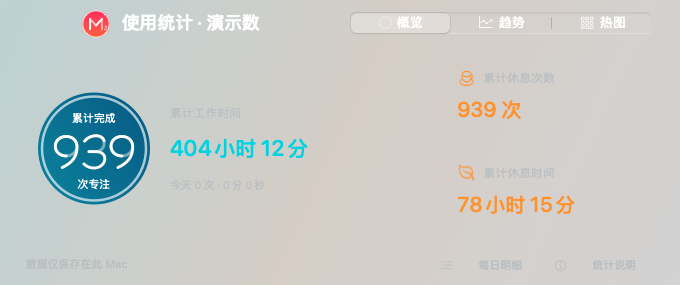
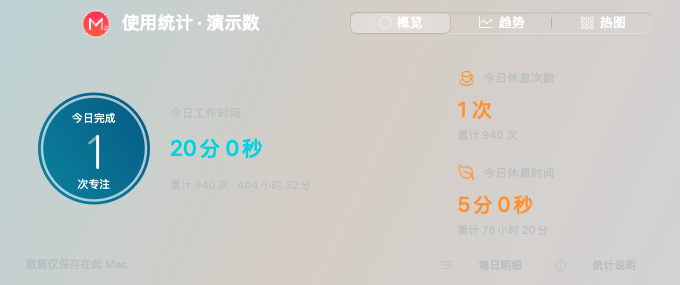
Prioritize today metrics in usage overview

diff --git a/Sources/Minutes2/StatisticsWindow.swift b/Sources/Minutes2/StatisticsWindow.swift
@@ -206,25 +206,27 @@ private final class StatisticsOverview: NSView {
                             NSColor(srgbRed: 0.03, green: 0.37, blue: 0.53, alpha: 1)])!.draw(in: path, angle: -35)
         let arc = NSBezierPath(ovalIn: circle.insetBy(dx: 4, dy: 4)); arc.lineWidth = 2.5
         NSColor.white.withAlphaComponent(0.65).setStroke(); arc.stroke()
-        StatsFormat.draw("累计完成", in: NSRect(x: 18, y: circle.minY + 18, width: 112, height: 20), size: 11, color: .white, alignment: .center)
+        StatsFormat.draw("今日完成", in: NSRect(x: 18, y: circle.minY + 18, width: 112, height: 20), size: 11, color: .white, alignment: .center)
         let countRect = NSRect(x: 18, y: circle.minY + 37, width: 112, height: 45)
         if available {
-            CountdownDigits.draw(total.workCount, in: countRect, height: min(34, 96 * 94 / (CGFloat(String(total.workCount).count) * 79)))
+            CountdownDigits.draw(today.workCount, in: countRect, height: min(34, 96 * 94 / (CGFloat(String(today.workCount).count) * 79)))
         } else { StatsFormat.draw("—", in: countRect, size: 32, color: .white, alignment: .center) }
         StatsFormat.draw("次专注", in: NSRect(x: 18, y: circle.minY + 84, width: 112, height: 20), size: 11, color: .white, alignment: .center)
         let x: CGFloat = 150, middle = bounds.height / 2
-        StatsFormat.draw("累计工作时间", in: NSRect(x: x, y: middle - 44, width: workWidth - x - 16, height: 22), size: 12)
-        StatsFormat.draw(available ? StatsFormat.duration(total.workSeconds) : "—", in: NSRect(x: x, y: middle - 14, width: workWidth - x - 16, height: 32), size: 22, color: StatsStyle.work, weight: .medium)
-        StatsFormat.draw(available ? "今天 \(today.workCount)次 · \(StatsFormat.duration(today.workSeconds))" : "统计记录暂不可用", in: NSRect(x: x, y: middle + 29, width: workWidth - x - 16, height: 20), size: 11)
+        StatsFormat.draw("今日工作时间", in: NSRect(x: x, y: middle - 44, width: workWidth - x - 16, height: 22), size: 12)
+        StatsFormat.draw(available ? StatsFormat.duration(today.workSeconds) : "—", in: NSRect(x: x, y: middle - 14, width: workWidth - x - 16, height: 32), size: 22, color: StatsStyle.work, weight: .medium)
+        StatsFormat.draw(available ? "累计 \(total.workCount)次 · \(StatsFormat.duration(total.workSeconds))" : "统计记录暂不可用", in: NSRect(x: x, y: middle + 29, width: workWidth - x - 16, height: 20), size: 11)
         let restX = workWidth + 12, restWidth = width - restX
-        for (index, pair) in [("累计休息次数", "\(total.restCount) 次"), ("累计休息时间", StatsFormat.duration(total.restSeconds))].enumerated() {
+        for (index, pair) in [("今日休息次数", "\(today.restCount) 次"), ("今日休息时间", StatsFormat.duration(today.restSeconds))].enumerated() {
             let top = CGFloat(index) * bounds.height / 2 + 15
             let symbol = NSImage(systemSymbolName: index == 0 ? "cup.and.saucer" : "leaf", accessibilityDescription: pair.0)
             symbol?.withSymbolConfiguration(.init(paletteColors: [StatsStyle.rest]))?.draw(in: NSRect(x: restX + 16, y: top, width: 18, height: 18))
             StatsFormat.draw(pair.0, in: NSRect(x: restX + 42, y: top + 1, width: restWidth - 54, height: 20), size: 12)
             StatsFormat.draw(available ? pair.1 : "—", in: NSRect(x: restX + 16, y: top + 28, width: restWidth - 32, height: 30), size: 21, color: StatsStyle.rest, weight: .medium)
+            let cumulative = index == 0 ? "累计 \(total.restCount) 次" : "累计 \(StatsFormat.duration(total.restSeconds))"
+            StatsFormat.draw(available ? cumulative : "", in: NSRect(x: restX + 16, y: top + 59, width: restWidth - 32, height: 19), size: 11)
         }
-        setAccessibilityLabel(available ? "累计完成\(total.workCount)次，工作\(StatsFormat.duration(total.workSeconds))，休息\(total.restCount)次，\(StatsFormat.duration(total.restSeconds))。今天完成\(today.workCount)次。" : "统计记录暂不可读取")
+        setAccessibilityLabel(available ? "今天完成\(today.workCount)次，工作\(StatsFormat.duration(today.workSeconds))，休息\(today.restCount)次，\(StatsFormat.duration(today.restSeconds))。累计完成\(total.workCount)次，工作\(StatsFormat.duration(total.workSeconds))，休息\(total.restCount)次，\(StatsFormat.duration(total.restSeconds))。" : "统计记录暂不可读取")
     }
 }
 

diff --git a/README.md b/README.md
@@ -119,7 +119,7 @@
 
 ## 使用统计
 
-从“视图 → 使用统计…”或圆盘右键菜单中的“使用数据…”打开 680×285 的半透明毛玻璃统计窗口。通过“概览、趋势、热图”三个 Tab 切换：概览突出累计专注次数、工作时间及休息数据；趋势支持今天、近 7 天、1 个月、3 个月、6 个月和 1 年，可切换“时间/次数”与“柱状图/折线图”；热图以一条横向网格展示近半年使用情况。“每日明细”提供可用键盘查看的数据表，统计说明按需打开。
+从“视图 → 使用统计…”或圆盘右键菜单中的“使用数据…”打开 680×285 的半透明毛玻璃统计窗口。通过“概览、趋势、热图”三个 Tab 切换：概览优先突出今天的专注次数、工作时间及休息数据，累计统计以次要文字展示；趋势支持今天、近 7 天、1 个月、3 个月、6 个月和 1 年，可切换“时间/次数”与“柱状图/折线图”；热图以一条横向网格展示近半年使用情况。“每日明细”提供可用键盘查看的数据表，统计说明按需打开。
 
 选择“今天”时按 0–23 时展示，时间柱每根代表 60 分钟，并提供“小时明细”；其他周期按天展示，每根时间柱代表 24 小时。工作、休息、其他时间采用三色堆叠；工作用青色实线、休息用橙色虚线。次数采用并列柱或不同颜色的折线，悬停可查看对应时段的数据。
 

diff --git a/docs/statistics-design.md b/docs/statistics-design.md
@@ -5,6 +5,7 @@
 - 680×285 原生窗口，透明标题栏保留系统关闭按钮，背景采用 HUD 毛玻璃，前景遮罩透明度为 22%，保留明显的背景模糊。
 - 产品 Logo 与圆形专注主卡沿用圆盘的视觉语言，完成次数复用计时器的矢量数字；青色对应工作，橙色对应休息，灰色对应其他时间。
 - 使用系统圆润字体，主指标 21–34pt，正文 11–12pt，次要说明 11pt。正文和指标使用适配明暗外观的颜色。
+- 概览以今天的数据为主：主圆显示今日完成次数，大号文字显示今日工作时长及休息次数、时长，累计统计在对应位置以次要文字显示。
 - 概览、趋势、热图三个原生分段 Tab；周期改为下拉选择，详细表格和统计口径按需打开。
 - 数据区统一使用透明背景，去掉概览指标、趋势图和热图的独立填充及边框，直接融入窗口毛玻璃；通过留白、图例和字体层级区分信息。保留 20pt 外边距、12pt 分组间距，概览采用左右布局，近半年热图采用单条横向网格。
 - Tab/筛选切换使用 180ms 淡入，遵循系统减少动态效果；减少透明度时关闭渐变背景，改用实色背景。

diff --git a/docs/usage-statistics.md b/docs/usage-statistics.md
@@ -4,7 +4,7 @@
 
 窗口采用与 Minutes2 一致的毛玻璃背景、柔和渐变及圆弧，数据区透明、没有独立色块背景，尺寸为 680×285。内容分为三个 Tab：
 
-- **概览**：圆形主卡突出累计完成次数，旁边显示累计工作时长和今天的专注情况；右侧纵向展示休息次数与时长。
+- **概览**：圆形主指标突出今日完成次数，旁边显示今日工作时长，右侧展示今日休息次数与时长；各指标下方以小字号显示累计统计。
 - **趋势**：独立选择周期、时间/次数和柱状图/折线图，切换 Tab 与自动刷新时保留选择。
 - **热图**：仅展示近半年，合并为一条横向网格，时间与次数可切换。
 
